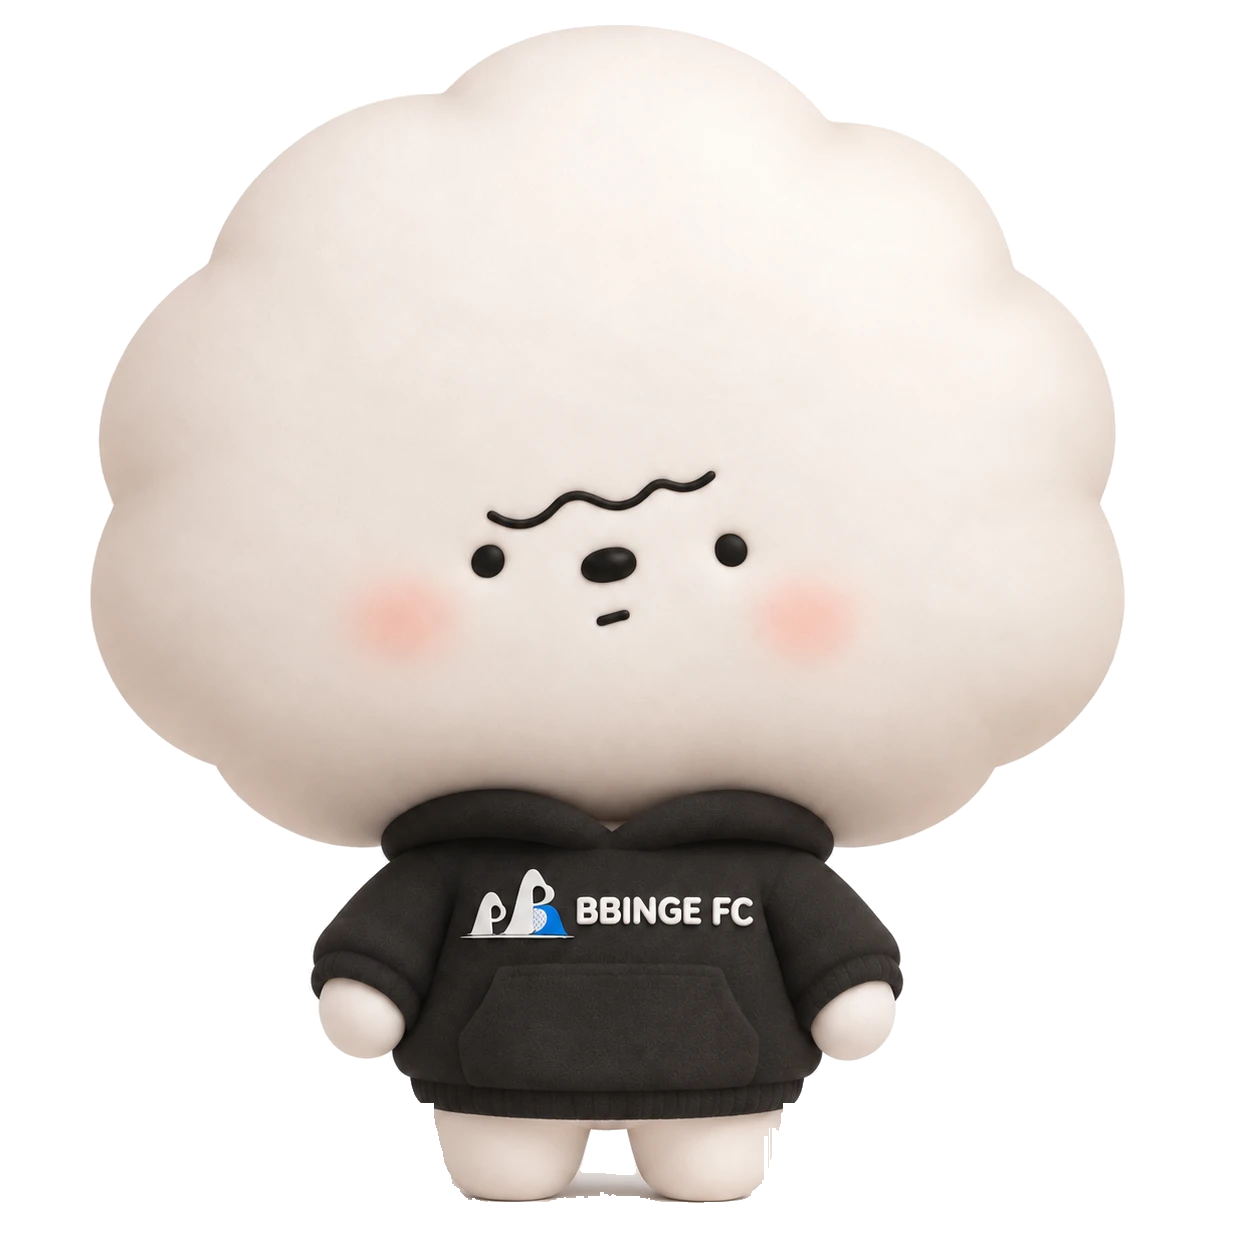
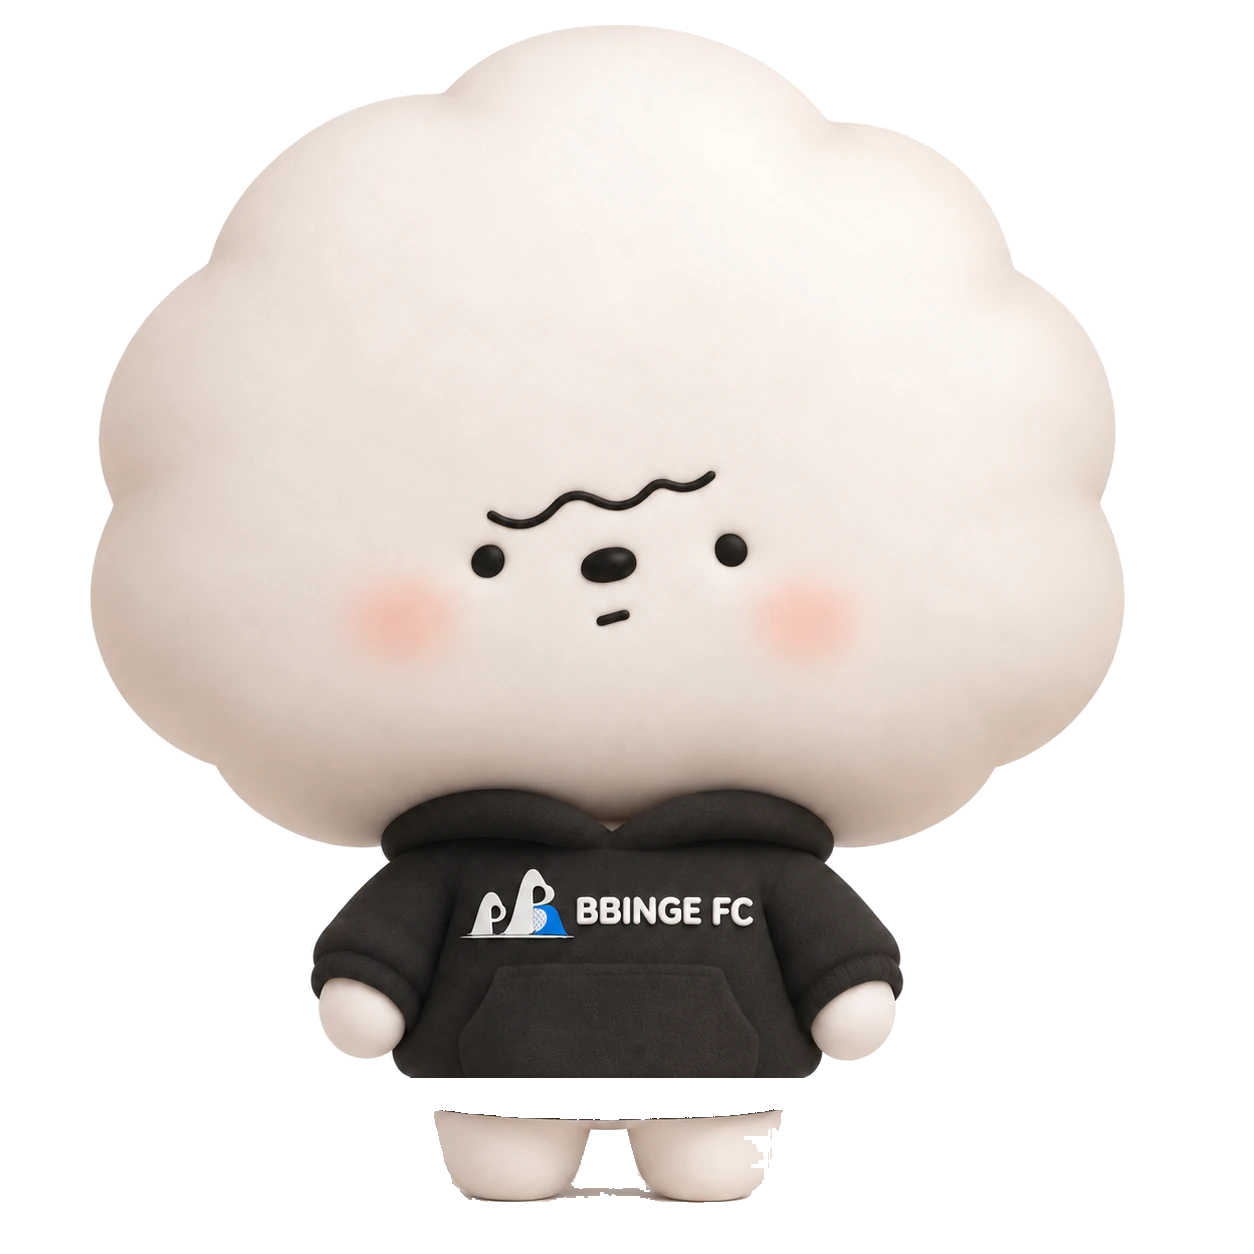
수정: 홈 로비 버튼을 캐릭터 페이지로 바꾸고 삥지 누끼를 마무리한다
- 로비 넷째 버튼을 나만의 GOAT 에서 삥지와 삥맹으로 바꾼다
- 버튼 아이콘으로 삥지 얼굴 아바타를 만든다
- 다리 사이와 발밑에 남던 접지 그림자를 번지기 방식으로 지운다

Changed region(s): [[0.311, 0.8397, 0.6531, 0.933], [0.4354, 0.933, 0.5287, 0.9641]]

diff --git a/HANDOFF.md b/HANDOFF.md
@@ -34,6 +34,8 @@
 
 ## 현재 인수인계 — 2026-09-21
 
+- **홈 로비 버튼을 캐릭터 페이지로 교체 (Claude, 2026-09-24, 운영자 지시 "나만의 고트 쪽을 캐릭터로 바꾸자"):** 로비 한 줄의 넷째 버튼이 `PB ARCADE · 나만의 GOAT`(`/play/`)에서 `CHARACTER · 삥지와 삥맹`(`/about/character/`)으로 바뀌었다. 아이콘은 삥지 얼굴을 흰 원에 담은 `public/images/brand/character/lobby-avatar-192.webp`다. GOAT 입구는 소장 기록 옆 5:11 포스터가 그대로 맡으므로 홈에서 오락실로 가는 길은 남아 있다.
+- **삥지 정면 컷 누끼 마무리 (Claude, 2026-09-24, 운영자 지적):** 다리 사이와 발밑에 접지 그림자가 회색 조각으로 남아 라인업에서 보였다. `make-character-cutouts.mjs`에 다섯째 단계를 더했다. 이미 비어 있는 아래쪽에서 색기 18 이하 화소를 따라 번져 들어가며 지우고, 연결을 따르므로 다리 안쪽은 파이지 않는다. **줄 단위로 "가까이에 따뜻한 색이 없으면 지운다"는 방식은 다리를 물어뜯어 폐기했다.**
 - **축디 입구 커버 스토리 회전 (Claude, 2026-09-24, 운영자 지시 "이것도 매번 좀 로테이션좀 돌게하자"):** `/culture/` 맨 위 `THE COVER STORY` 칸이 리사 편에 고정돼 있었다. 이제 최근 축디 글 8편 사이에서 6시간마다 한 편씩 돌아간다. 빌드 시각이 어느 칸에 들어가느냐로 정하므로 같은 빌드에서는 같은 글이 나오고 다음 배포에서 다음 글로 넘어간다. 스크립트는 싣지 않는다. 한 편을 계속 세우고 싶으면 `src/config/culture.ts`의 `cultureCoverArticleId`에 그 글의 아이디를 적으면 회전이 멈춘다(비어 있으면 회전). 후보 수와 회전 주기는 같은 파일의 `cultureCoverPoolSize`·`cultureCoverRotationHours`다. 세 관 입구 사진은 이전처럼 각 관 최신 글을 따른다.
 
 - **캐릭터 페이지를 자기소개서 구조로 개편 (Claude, 2026-09-23, 운영자 지시 "뭐 이런식으로 가야 정상아님?"):** 운영자가 대전 꿈돌이 캐릭터 페이지, 펭수 자기소개서, 카카오프렌즈 라인업, `세계관 마케팅 vs 상황관 마케팅` 만화를 참고로 주며 첫 구조를 반려했다. 로고 페이지 문법을 베낀 번호 절이 브랜드 문서처럼 읽힌 게 원인이다. 지금은 라인업 → 자기소개서 두 장(사진 + 이름·나이·키·고향·성격·특기·좋아하는 것·싫어하는 것 표) → 얼굴 클로즈업 두 장이다. **확정 프로필:** 삥지 94cm·서초구·시니컬하고 쿨함, 삥맹 95cm·강남구·섬세하고 감성적. 특기·좋아하는 것·싫어하는 것은 Claude 초안을 운영자가 그대로 승인했고, `자주 하는 말` 항목은 뺐다. **나이는 빌드할 때 센다.** 30일 미만 `생후 N일`, 1년 미만 `생후 N개월`, 그 뒤 `만 N세`이며 스크립트를 싣지 않는다(6시간마다 자동 배포라 숫자가 따라온다). **잔글씨 금지(운영자 지시):** 12~13px 글자를 전부 14px 이상으로 올렸고 검수가 14px 미만을 잡는다. 땀 흘리는 삥맹 컷(`bbingmaeng-sweat.webp`)이 이날 추가됐다. 상세는 `BBINGE_CHARACTER_HANDOFF.md` 8절.

diff --git a/STATUS.md b/STATUS.md
@@ -4,9 +4,9 @@
 새 세션은 **이 파일을 제일 먼저 읽는다.** 여기 있는 숫자는 문서에 적어 둔 기억이 아니라 저장소를 직접 센 값이다.
 고정 규칙은 `AGENTS.md` §1의 핵심 문서를, 작업 경위는 `HANDOFF.md`를 본다.
 
-- 생성 시각: 2026. 9. 24. 0시 18분 16초 (KST)
-- 이 파일을 만든 시점의 커밋: `64cbced` · 2026-09-23 23:24 · 수정(축디): 카일리 편에 인물 카드를 넣는다
-- 작업 트리: 커밋 안 된 변경 4건
+- 생성 시각: 2026. 9. 24. 0시 37분 45초 (KST)
+- 이 파일을 만든 시점의 커밋: `16940bd` · 2026-09-24 00:21 · 수정(축디): 입구 커버 스토리를 고정에서 회전으로 바꾼다
+- 작업 트리: 커밋 안 된 변경 6건
 - **배포 확인:** `git log --oneline -1`의 해시와 https://bbinge-fc.pages.dev/deploy.json 의 `commit`이 같으면 반영 완료다. 이 파일은 빌드 때 만들어지므로 그 뒤의 커밋 한 개만큼 뒤처져 있을 수 있다.
 
 ## 열린 항목
@@ -116,6 +116,7 @@
 ## 최근 커밋 12건
 
 ```
+2026-09-24  16940bd  수정(축디): 입구 커버 스토리를 고정에서 회전으로 바꾼다
 2026-09-23  64cbced  수정(축디): 카일리 편에 인물 카드를 넣는다
 2026-09-23  cd5ad55  발행(축디): 카일리 제너 월드컵 결승 올블랙 카프리 코디
 2026-09-23  cc7ce7b  수정(캐릭터): 다리 사이에 낀 흰 쐐기를 지운다
@@ -127,5 +128,4 @@
 2026-09-23  586787c  추가(캐릭터): 단체 프로필 뒤에 계절 배경을 깐다
 2026-09-23  c262edd  문서: 캐릭터 페이지 구조 설명을 단체 프로필로 맞춘다
 2026-09-23  e3dc319  수정(캐릭터): 얼굴 절을 인스타 모양 단체 프로필로 바꾼다
-2026-09-23  1b893fb  수정(캐릭터): 삥맹 걸음을 가라앉히고 삥지를 비스듬히 굴린다
 ```
